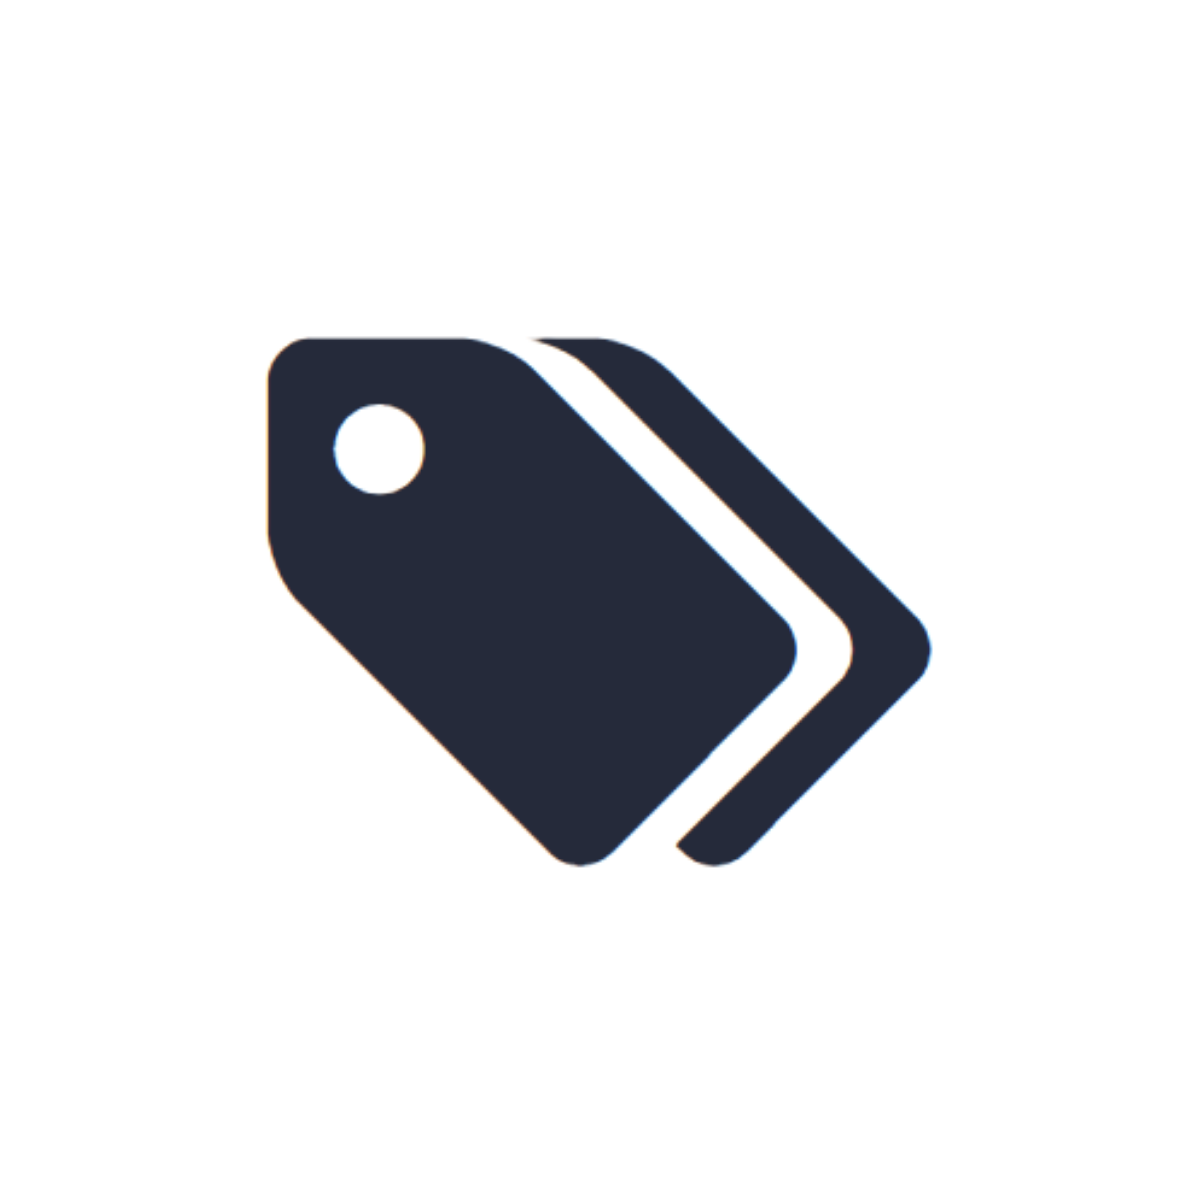
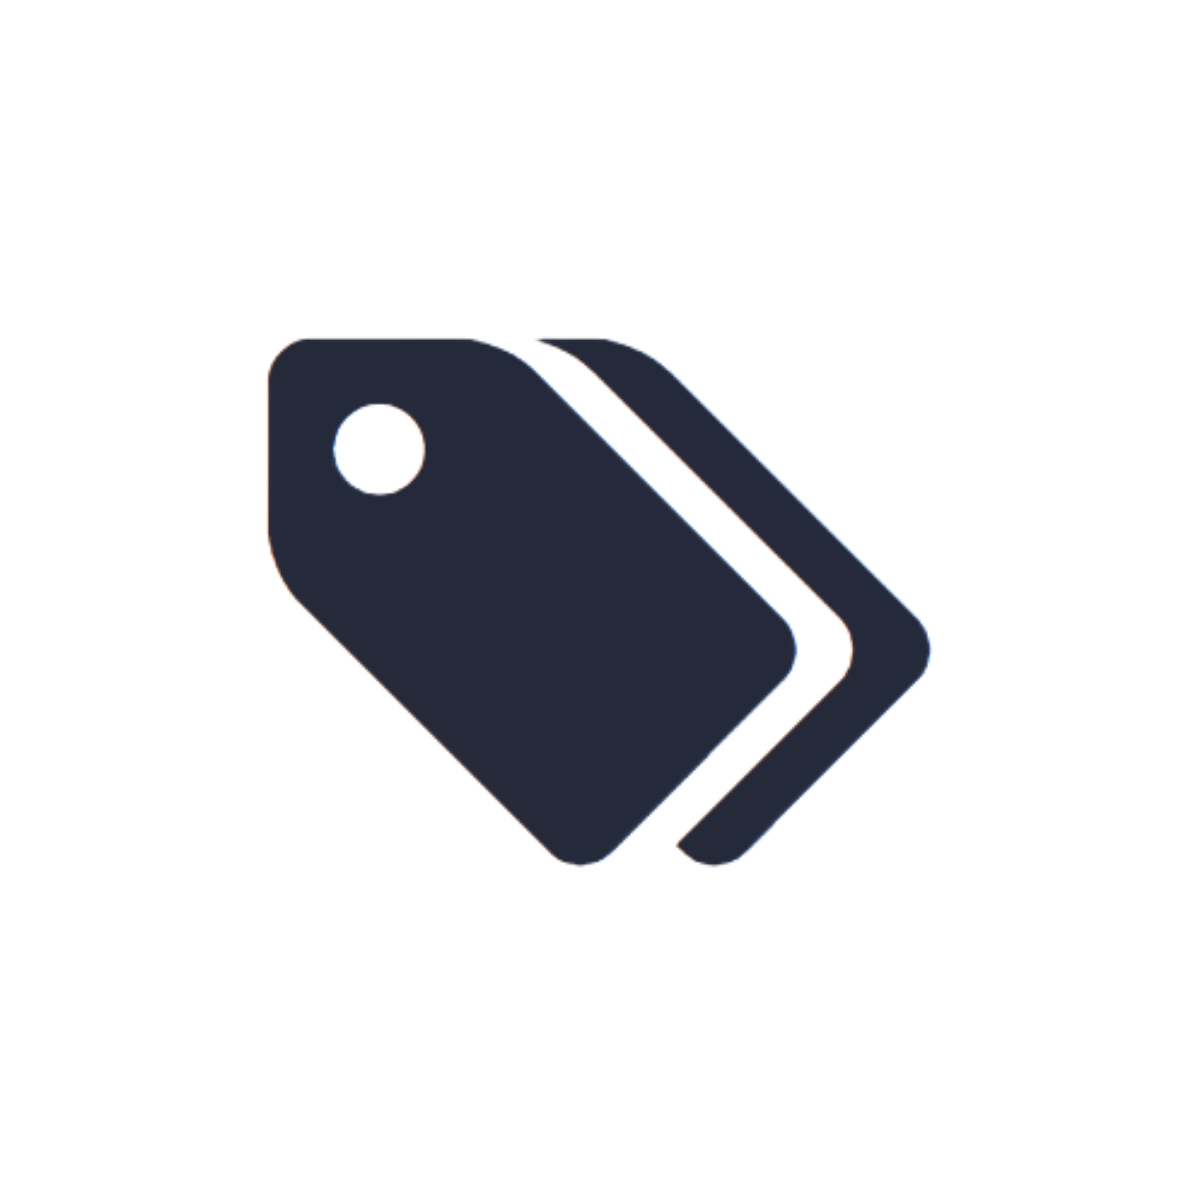
Edit spacing homepage

diff --git a/pages/.ipynb_checkpoints/home-checkpoint.py b/pages/.ipynb_checkpoints/home-checkpoint.py
@@ -47,8 +47,26 @@ tools = [
     {
         "title": "Sales by Brand",
         "description": "Generate sales report based on brand and time frame.",
-        "status": "Planned",
+        "status": "Coming Soon",
         "category": "Inventory Tools",
+        "icon": icons["brand"],
+        "page": None,
+        "enabled": False,
+    },
+    {
+        "title": "Vendor Contact Sheet",
+        "description": "Link to google sheet containing information about how to contact vendors/reps.",
+        "status": "Coming Soon",
+        "category": "Office Hour Tools",
+        "icon": icons["brand"],
+        "page": None,
+        "enabled": False,
+    },
+    {
+        "title": "Office Hour Tacker",
+        "description": "Exclusively for work from home employee's to track their working office hours.",
+        "status": "Coming Soon",
+        "category": "Office Hour Tools",
         "icon": icons["brand"],
         "page": None,
         "enabled": False,
@@ -135,14 +153,14 @@ section[data-testid="stSidebar"] {
 .section-subtitle {
     color: #5C7A58;
     font-size: 16px;
-    margin-bottom: 24px;
+    margin-bottom: 10px;
 }
 
 .category-title {
     color: #1D5A3E;
     font-size: 22px;
     font-weight: 850;
-    margin: 28px 0 14px 0;
+    margin: 10px 0 12px 0;
 }
 
 .app-card {
@@ -424,7 +442,7 @@ def render_tool_card(tool, key):
         )
 
 
-categories = ["Ordering Tools", "Inventory Tools", "TBD"]
+categories = ["Ordering Tools", "Inventory Tools", "Office Hour Tools"]
 
 for category in categories:
     category_tools = [tool for tool in tools if tool["category"] == category]

diff --git a/pages/home.py b/pages/home.py
@@ -47,8 +47,26 @@ tools = [
     {
         "title": "Sales by Brand",
         "description": "Generate sales report based on brand and time frame.",
-        "status": "Planned",
+        "status": "Coming Soon",
         "category": "Inventory Tools",
+        "icon": icons["brand"],
+        "page": None,
+        "enabled": False,
+    },
+    {
+        "title": "Vendor Contact Sheet",
+        "description": "Link to google sheet containing information about how to contact vendors/reps.",
+        "status": "Coming Soon",
+        "category": "Office Hour Tools",
+        "icon": icons["brand"],
+        "page": None,
+        "enabled": False,
+    },
+    {
+        "title": "Office Hour Tacker",
+        "description": "Exclusively for work from home employee's to track their working office hours.",
+        "status": "Coming Soon",
+        "category": "Office Hour Tools",
         "icon": icons["brand"],
         "page": None,
         "enabled": False,
@@ -135,14 +153,14 @@ section[data-testid="stSidebar"] {
 .section-subtitle {
     color: #5C7A58;
     font-size: 16px;
-    margin-bottom: 24px;
+    margin-bottom: 10px;
 }
 
 .category-title {
     color: #1D5A3E;
     font-size: 22px;
     font-weight: 850;
-    margin: 28px 0 14px 0;
+    margin: 10px 0 12px 0;
 }
 
 .app-card {
@@ -424,7 +442,7 @@ def render_tool_card(tool, key):
         )
 
 
-categories = ["Ordering Tools", "Inventory Tools", "TBD"]
+categories = ["Ordering Tools", "Inventory Tools", "Office Hour Tools"]
 
 for category in categories:
     category_tools = [tool for tool in tools if tool["category"] == category]